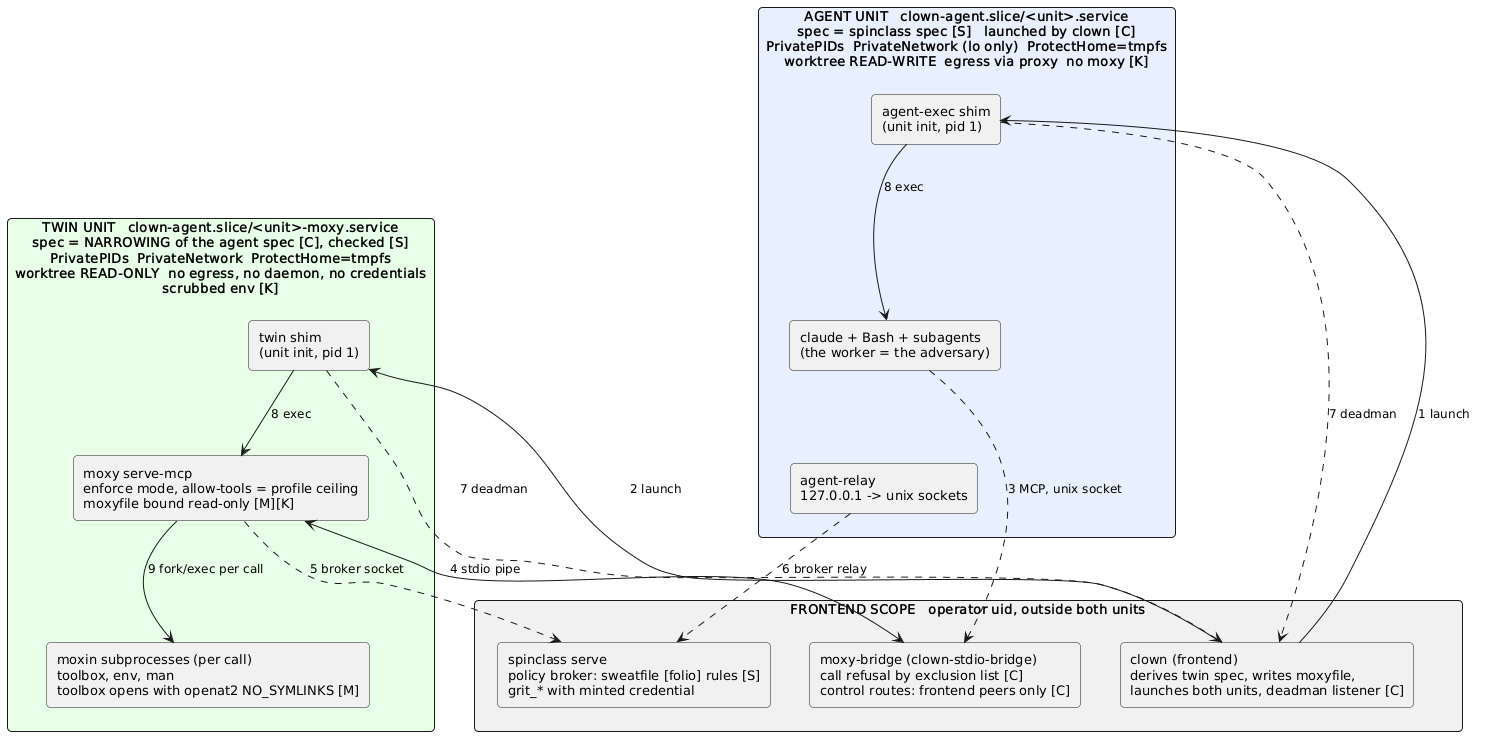
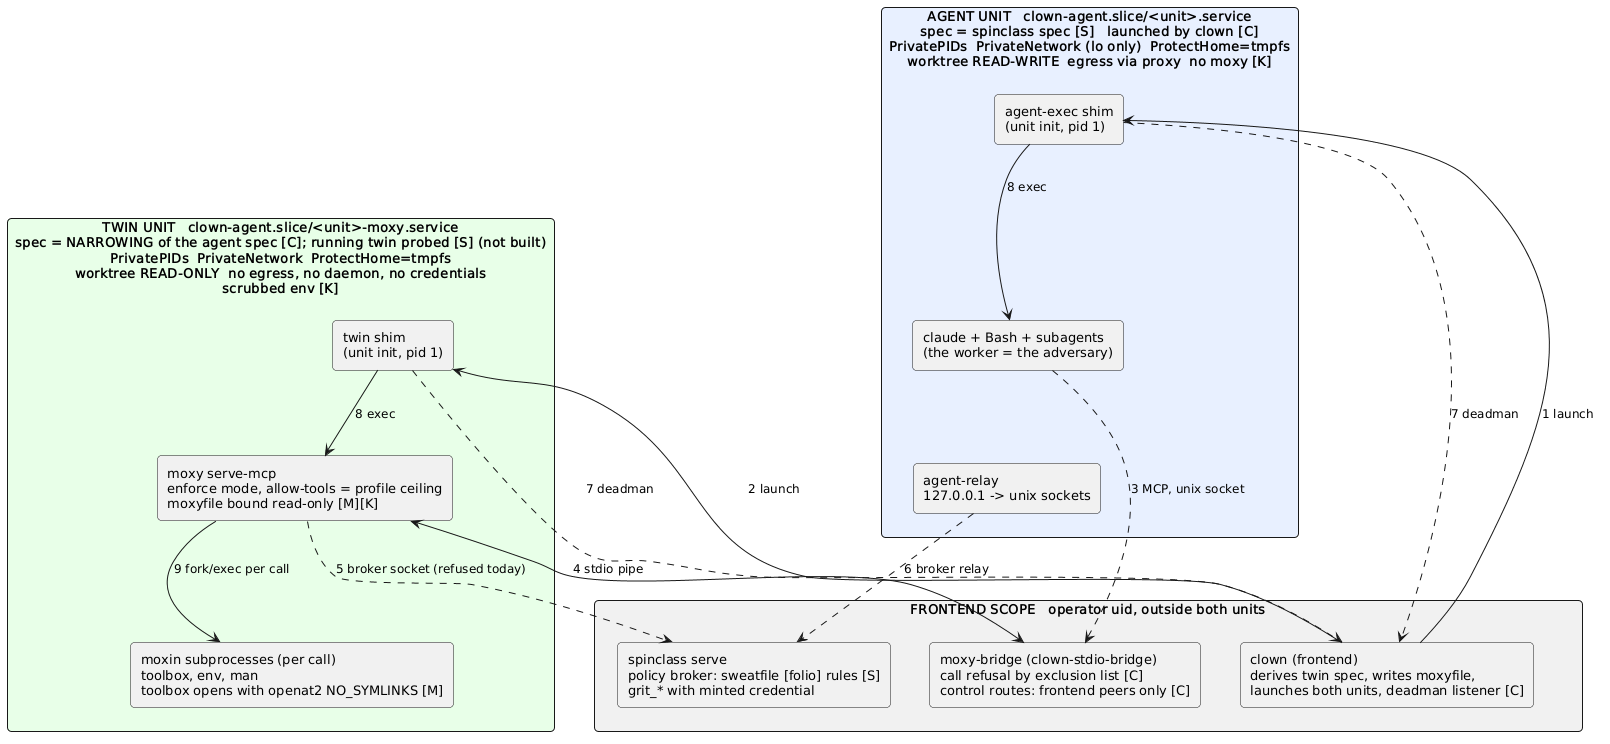
docs: structural-moxy note takes spinclass's five corrections (broker refuses a twin today, no spec-narrowing check, one-unit machinery, new field uncompared, R3' placement report); diagram re-rendered

diff --git a/docs/plans/2026-11-03-structural-moxy-confined.md b/docs/plans/2026-11-03-structural-moxy-confined.md
@@ -106,8 +106,11 @@ What it costs:
 - A second unit per session: lifecycle (start before the agent, stop with the
   session, die when the frontend dies, the same deadman as the agent unit),
   startup latency, a second cgroup under `clown-agent.slice`, and spinclass's
-  confinement check, which currently expects one unit per session (**U**: see
-  question (a) to spinclass).
+  confinement machinery, which assumes one unit per session (R per light-cedar:
+  the unit record carries one Unit/Cgroup/ServeSocket; F11 iterates one record
+  per live session; `staleUnits`, `stop.go` and `close_signal.go` act on
+  `rec.Unit`; F10, F13, F7 and the rest probe only the agent unit, so **nothing
+  probes the twin today**, and the deadman alone is not a close).
 - Not everything moxy does is reachable with the unit's authority. That is the
   point, but it means: git remote operations still go through spinclass serve's
   frontend grit; nix builds still go through the daemon socket the spec binds;
@@ -132,10 +135,10 @@ only parsed). Boxes are units and processes; numbers key into the tables.
 | # | Edge | Mechanism | Who can connect | Check, and where |
 |---|---|---|---|---|
 | 1 | clown starts the agent unit | `systemd-run --user --pipe --collect` with the pty slave as stdio (R, FDR 0020) | clown only | required unit properties; clown refuses to launch if one cannot be applied (R) |
-| 2 | clown starts the twin | same launcher, twin spec, `BindReadOnlyPaths=` of the moxyfile directory (I) | clown only | same; spinclass checks the twin spec is a narrowing of the agent spec (I, needs spinclass: not built) |
+| 2 | clown starts the twin | same launcher, twin spec, `BindReadOnlyPaths=` of the moxyfile directory (I) | clown only | same. clown derives the twin spec by a pure function of the agent spec (read-only worktree, no egress, fewer sockets) with a clown test that it only narrows (I). Spinclass does **not** check a twin spec: it writes the one spec and never sees a derived one (R per light-cedar); it would probe the RUNNING twin instead (new F-rows, not built) |
 | 3 | agent to moxy-bridge | unix socket created by the frontend bridge, bound into the agent unit as one inode (R: the serve-socket pattern, `ServeConn.Frontend`) | processes in the agent unit's cgroup | frontend end checks `SO_PEERCRED` and `/proc/<pid>/cgroup` (R). `/mcp` and `/healthz` open to the unit; `/clown/exclude-tools` and `/clown/system-prompt` answer 403 to the unit and to a peer with no class (R, FDR 0020, clown#301) |
 | 4 | bridge to moxy | the stdio of `systemd-run --pipe ... moxy serve-mcp`: no socket exists | only the frontend holds the pipe; the agent cannot name it and cannot see the twin's pid ns (R for `PrivatePIDs`) | none needed beyond the kernel. **U:** the bridge today wraps a stdio child it starts itself; a child that is a `systemd-run --pipe` client (its lifetime, its signal handling, one child shared by all connections) is not tried |
-| 5 | moxy to broker | unix socket where `spinclass serve` listens, bound into the twin as one inode (I; the agent unit gets the same broker by a loopback relay, R) | the twin's processes | the broker's peer check (R: `peercheck`, spinclass links it). **U:** whether the broker admits a twin peer class today; broker down means moxy falls to its static floor, never to allow (R, moxy FDR 0016) |
+| 5 | moxy to broker | unix socket where `spinclass serve` listens, bound into the twin as one inode (I; the agent unit gets the same broker by a loopback relay, R) | the twin's processes | the broker's peer check (R: `peercheck`, spinclass links it). **Today the broker refuses a twin** (R per light-cedar, `policybroker_serve.go:133-147`): it admits `SameUID` plus a pid in the agent unit's cgroup (`CheckUnitCgroup(pid, rec.Unit)`), and a confined launch whose record is unreadable admits nobody. Refused until a spinclass change and a record field naming the twin unit/cgroup both land (the record is clown's format, `LoadUnitRecord`). Broker down means moxy falls to its static floor, never to allow (R, moxy FDR 0016) |
 | 6 | agent to broker | loopback `127.0.0.1:19001` relay to the same socket (R, `brokersocket.go`) | the agent unit | unchanged |
 | 7 | deadman | shim connects to the frontend's socket before anything else; EOF means kill the unit (R, FDR 0020 #319) | one connection per unit | frontend peer-checks the cgroup (R). The twin needs its own; **U:** the second listener |
 | 8, 9 | shim execs claude / moxy; moxy forks a moxin per call | process exec inside each unit | in-unit | the moxin inherits the twin's view and nothing else (I; moxin commands are per-call subprocesses, R, `run.toml`) |
@@ -157,7 +160,7 @@ only parsed). Boxes are units and processes; numbers key into the tables.
 
 | Rule | Enforced by | Fails closed how |
 |---|---|---|
-| The twin's spec never exceeds the agent's | clown derives it by narrowing (I); spinclass checks it (I, not built) | refuse to launch, no moxy |
+| The twin's spec never exceeds the agent's | clown derives it by a pure narrowing function with a clown test (I); spinclass does not check the spec but would probe the running twin (new F-rows, not built) | refuse to launch, no moxy |
 | The twin cannot write, reach the network, read the home or see the worker | kernel/systemd: RO bind, `PrivateNetwork`, `ProtectHome`, `PrivatePIDs` (R for the properties on the agent unit; the twin is the same builder, U) | the property is required, launch refused |
 | Only the profile's tools exist | moxy `allow-tools` from the moxyfile (R), enforced again by the frontend bridge's call refusal (R for the pattern) | a tool not listed is absent |
 | Read paths follow the sweatfile | broker, `[folio]` rules (R per light-cedar); `toolbox` re-asks and opens with `openat2(RESOLVE_NO_SYMLINKS)` (R, moxy FDR 0016); folio, rg, jq do not (R, moxy#490) | a denied path is refused; no broker falls to the static floor |
@@ -237,14 +240,16 @@ allow-list the moxy unit enforces. Three shapes:
 My preference is (1) for clown plus (3)'s trust rule: the profile proposes, the
 trusted sweatfile may only narrow, and the moxy unit's effective list is the
 intersection. This is the same shape as the user-profile "narrows a builtin"
-rule spinclass already enforces (Tier 1), so a new `moxy_allow` is checked by the
-existing `catalogWidenings`. **U:** whether that check can read a new field
-without a spinclass change.
+rule spinclass already enforces (Tier 1), but `catalogWidenings` lists the
+fields it compares explicitly, so a new `moxy_allow` is **not** compared until
+spinclass adds it (R per light-cedar). Until then a user profile could widen the
+ceiling unchecked. The change is small and test-first on their side and must land
+with or before clown's field.
 
 ## What clown has to change (R for locations, I for the changes)
 
 1. **A second-unit launcher** next to `runInAgentScope`
-   (`cmd/clown/agentscope.go`): same spec, different command (`moxy serve-mcp`
+   (`cmd/clown/agentscope.go`): the narrowed spec (a pure function, tested), different command (`moxy serve-mcp`
    behind the stdio bridge), no pty, a unix socket output. Reuses
    `prepareAgentScope`; the unit properties are the agent unit's.
 2. **The socket into the agent unit** (`Spec.Sockets` / the serve-socket
@@ -257,10 +262,18 @@ without a spinclass change.
 4. **The exclusion push** (`applyInUnitExclusions`, readback file) becomes a
    frontend push over the control route plus a frontend readback, not an
    in-unit record.
-5. **Profile templates:** `worker` and `canary-spinclass` keep `moxy/moxy` with
-   a real `moxy_allow` (no `grit_*`, `toolbox_run` in); the partition test and
-   the "worker must drop moxy whole" test change **only after** spinclass's R3
-   changes. I have not touched either.
+5. **Profile templates:** `worker` and `canary-spinclass` keep moxy with a real
+   `moxy_allow` (no `grit_*`, `toolbox_run` in); the partition test and the
+   "worker must drop moxy whole" test change **only after** spinclass's R3
+   changes. I have not touched either. Server name: R3's test keys on the exact
+   name `moxy/moxy` (`confineprofile.go` `moxyServer`), so R3' could not tell an
+   in-unit moxy from the twin by name. Proposal (spinclass's preference):
+   profile resolution reports **(a)** the effective tool set and **(b)**
+   `placement=sibling`; clown guarantees a confined launch never starts an
+   in-unit moxy when the profile reports sibling; R3' accepts only if both are
+   reported and the set has no `grit_*`, and refuses anything else. The
+   alternative, a distinct server name for the twin, needs `claude.allow`
+   entries or a hook change (below). Not decided.
 6. **Docs:** FDR 0020: the "Consumer" table row for moxy (it is no longer "inside
    the unit as claude's stdio child"), the sentence "A frontend moxy would be a
    ProtectHome bypass" (replaced by why a sibling unit is not), the
@@ -318,6 +331,38 @@ defense in depth. Their answers, as reported, not re-verified by me:
 Consequence for the ceiling: the profile gets an explicit tool list field
 (shape 1) and `profilelookup` reports the effective set; the sweatfile does not
 supply tools. The "hybrid with intersection" preference above is dropped.
+
+## Corrections from spinclass's review (light-cedar, on 054f655)
+
+Five points where my first draft was wrong or too optimistic; the sections above
+now say so. Checked by light-cedar against spinclass code, not re-read by me.
+
+1. The broker refuses a twin today (peer check is the agent unit's cgroup); it
+   needs a spinclass change and a unit-record field naming the twin.
+2. Spinclass does not check a twin spec; `catalogWidenings` compares profiles,
+   not unit specs. The honest design is a pure derivation function in clown with
+   a clown test, plus spinclass probing the running twin.
+3. The confinement checks, `stop`, `close` and `staleUnits` assume one unit per
+   session; the twin needs its own record entry, probe set and stop path.
+4. A new profile field is not compared by `catalogWidenings` until spinclass adds
+   it.
+5. R3' cannot tell the twin from an in-unit moxy by server name; use the explicit
+   report (tool set plus `placement=sibling`).
+
+Confirmed: `home:` in a confined session maps to the agent home (the twin must set
+the same `HOME`); `[folio]` is evaluated only by `spinclass serve`'s broker; the
+option recommendation (A for the read-only default, B on demand, credentialed
+moxins stay frontend, D as defense in depth with abort-on-failure).
+
+Flagged, unresolved (inferred by spinclass, not checked):
+
+- **A read-only twin versus cached results.** moxy streams large results into the
+  madder blob store and tools take `madder://blobs/<digest>` back (chaining).
+  A read-only twin cannot write blobs unless the madder store is bound writable.
+  Where results land is undecided; it is an authority the twin would then hold.
+- **The hook's moxy read allow list (#372)** matches the existing plugin prefix; a
+  twin under another server name needs `claude.allow` entries or a hook change
+  (operator question 4, unruled).
 
 ## Open questions
 
